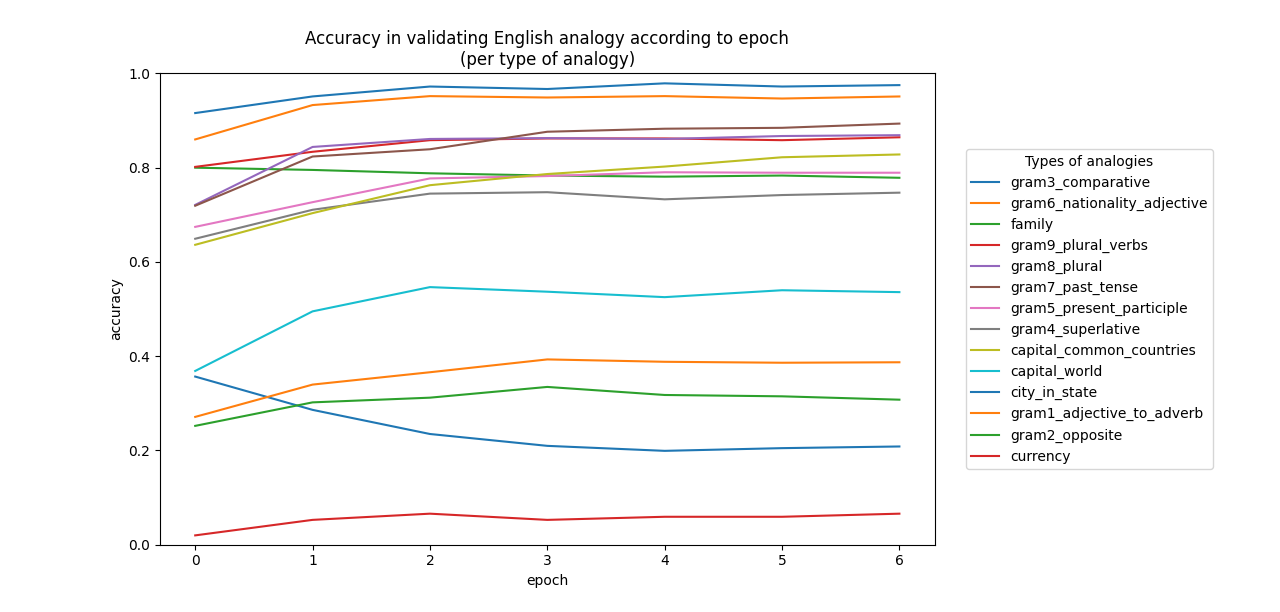
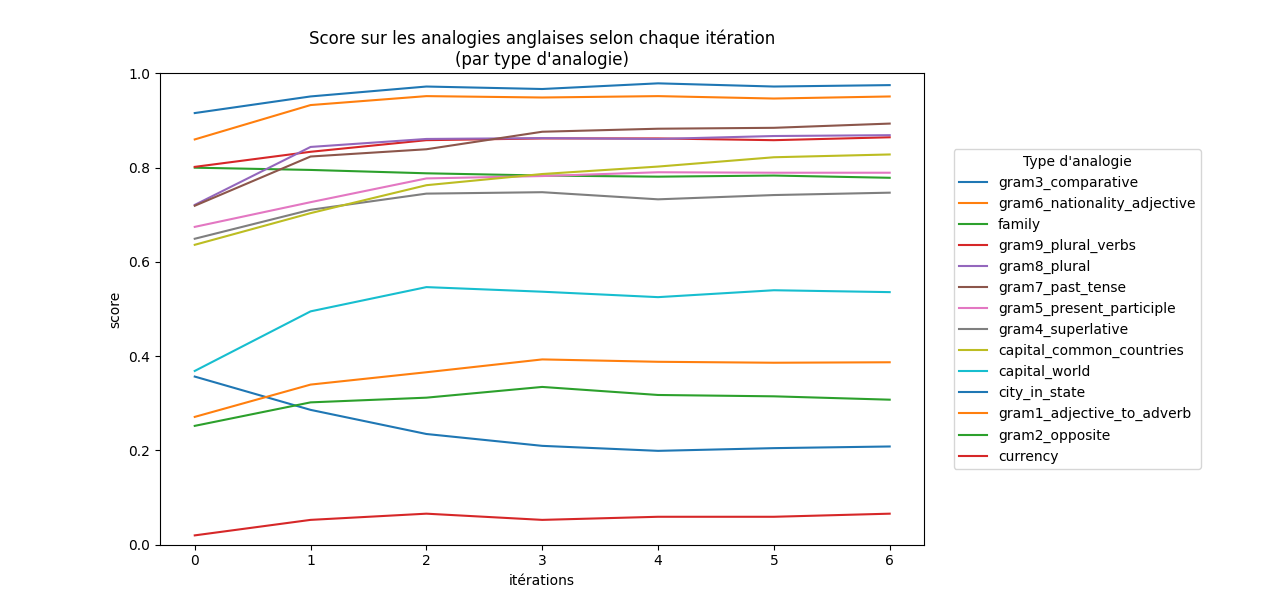
French plots instead of English

diff --git a/test_analogies.py b/test_analogies.py
@@ -105,10 +105,10 @@ def draw_plot_from_explicit_accuracies():
 
     for acc, name in zip([antonym_adjectives, gram6_nationality_adjective, currency, gram1_adjective_to_adverb, gram2_opposite, capital_common_countries, family, city_in_state], ["antonym_adjectives", "gram6_nationality_adjective", "currency", "gram1_adjective_to_adverb", "gram2_opposite", "capital_common_countries", "family", "city_in_state"]):
         plt.plot([i for i in range(5)], acc, label=name)
-    plt.legend(title="Types of analogies", loc="center", bbox_to_anchor=(1.2, 0.5))
-    plt.title("Accuracy in validating French analogy according to epoch\n(per type of analogy)")
-    plt.xlabel("epoch")
-    plt.ylabel("accuracy")
+    plt.legend(title="Type d'analogie", loc="center", bbox_to_anchor=(1.2, 0.5))
+    plt.title("Score sur les analogies françaises selon chaque itération\n(par type d'analogie)")
+    plt.xlabel("itérations")
+    plt.ylabel("score")
     plt.ylim(0, 1)
     plt.show()
 
@@ -144,9 +144,10 @@ def draw_plot_from_explicit_accuracies():
     for acc, name in zip    ([gram3_comparative, gram6_nationality_adjective, family, gram9_plural_verbs, gram8_plural, gram7_past_tense, gram5_present_participle, gram4_superlative, capital_common_countries, capital_world, city_in_state, gram1_adjective_to_adverb, gram2_opposite, currency],["gram3_comparative", "gram6_nationality_adjective", "family", "gram9_plural_verbs", "gram8_plural", "gram7_past_tense", "gram5_present_participle", "gram4_superlative", "capital_common_countries", "capital_world", "city_in_state", "gram1_adjective_to_adverb", "gram2_opposite", "currency"]):
         plt.plot([i for i in range(7)], acc, label=name)
     plt.legend(title="Types of analogies", loc="center", bbox_to_anchor=(1.2, 0.5))
-    plt.title("Accuracy in validating English analogy according to epoch\n(per type of analogy)")
-    plt.xlabel("epoch")
-    plt.ylabel("accuracy")
+    plt.legend(title="Type d'analogie", loc="center", bbox_to_anchor=(1.2, 0.5))
+    plt.title("Score sur les analogies anglaises selon chaque itération\n(par type d'analogie)")
+    plt.xlabel("itérations")
+    plt.ylabel("score")
     plt.ylim(0, 1)
     plt.show()
 def get_analogies_examples(path:str) -> dict[str:list[str]]:
